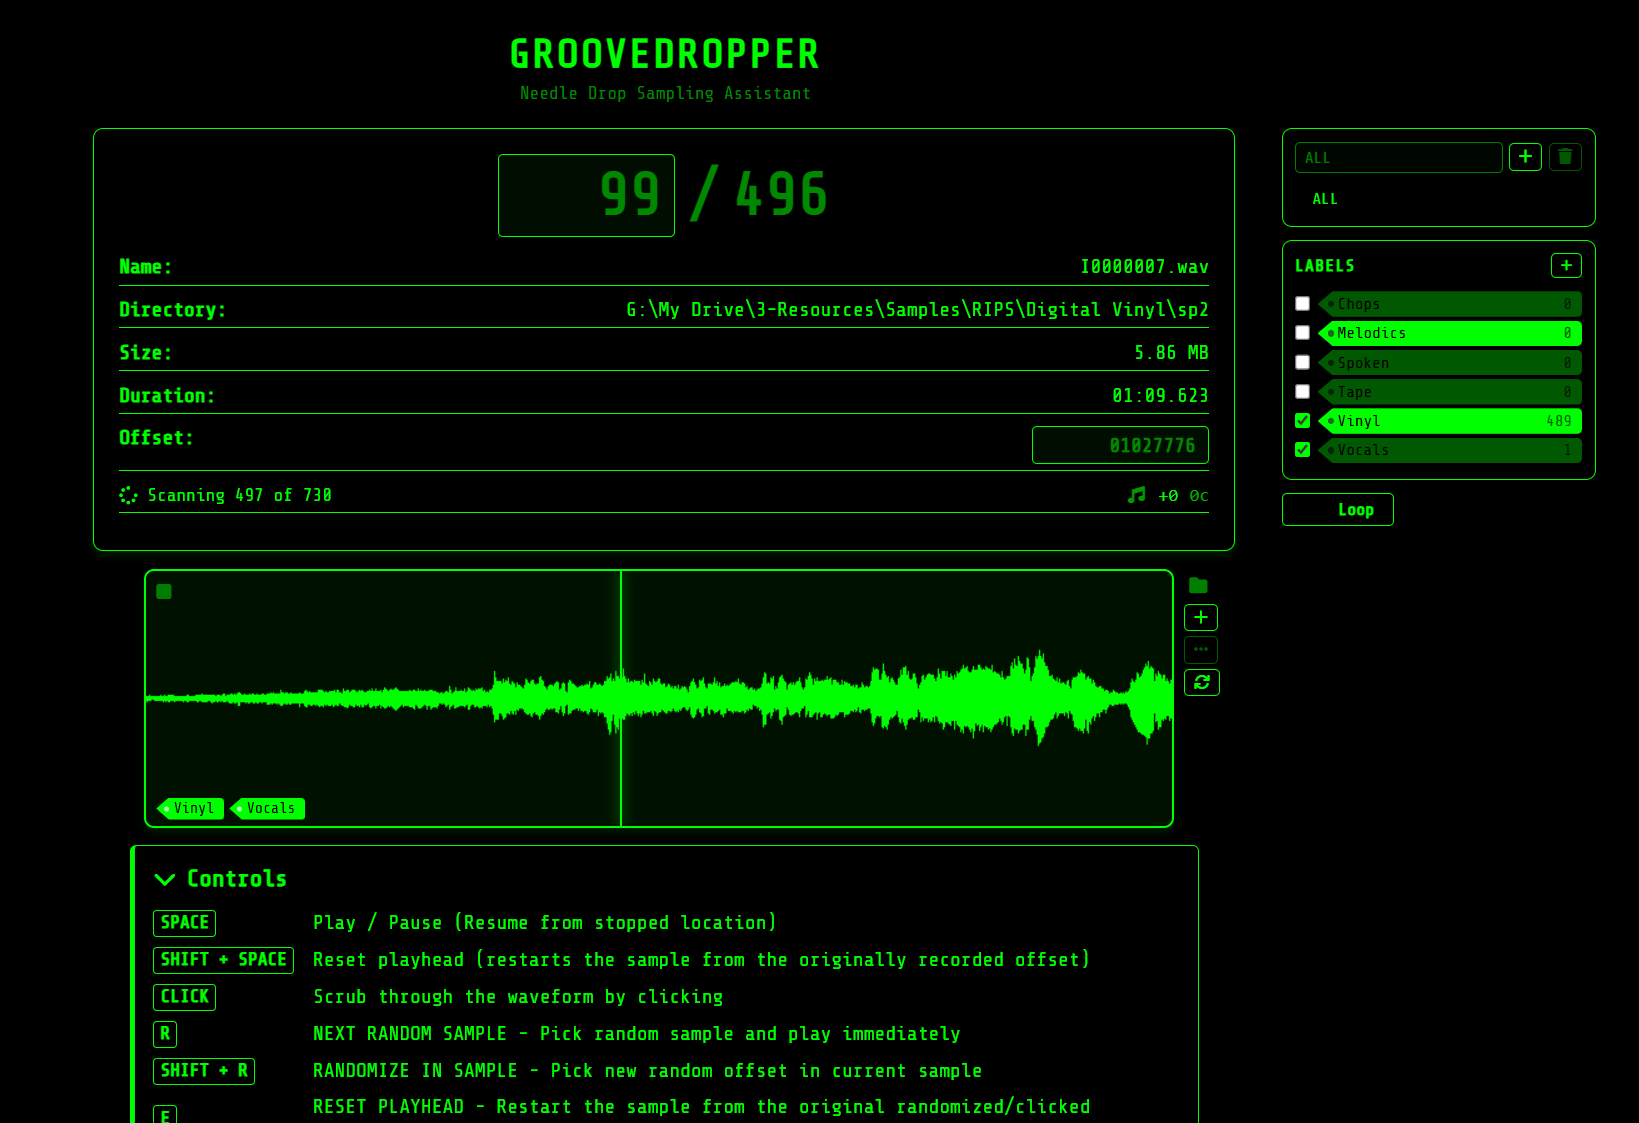
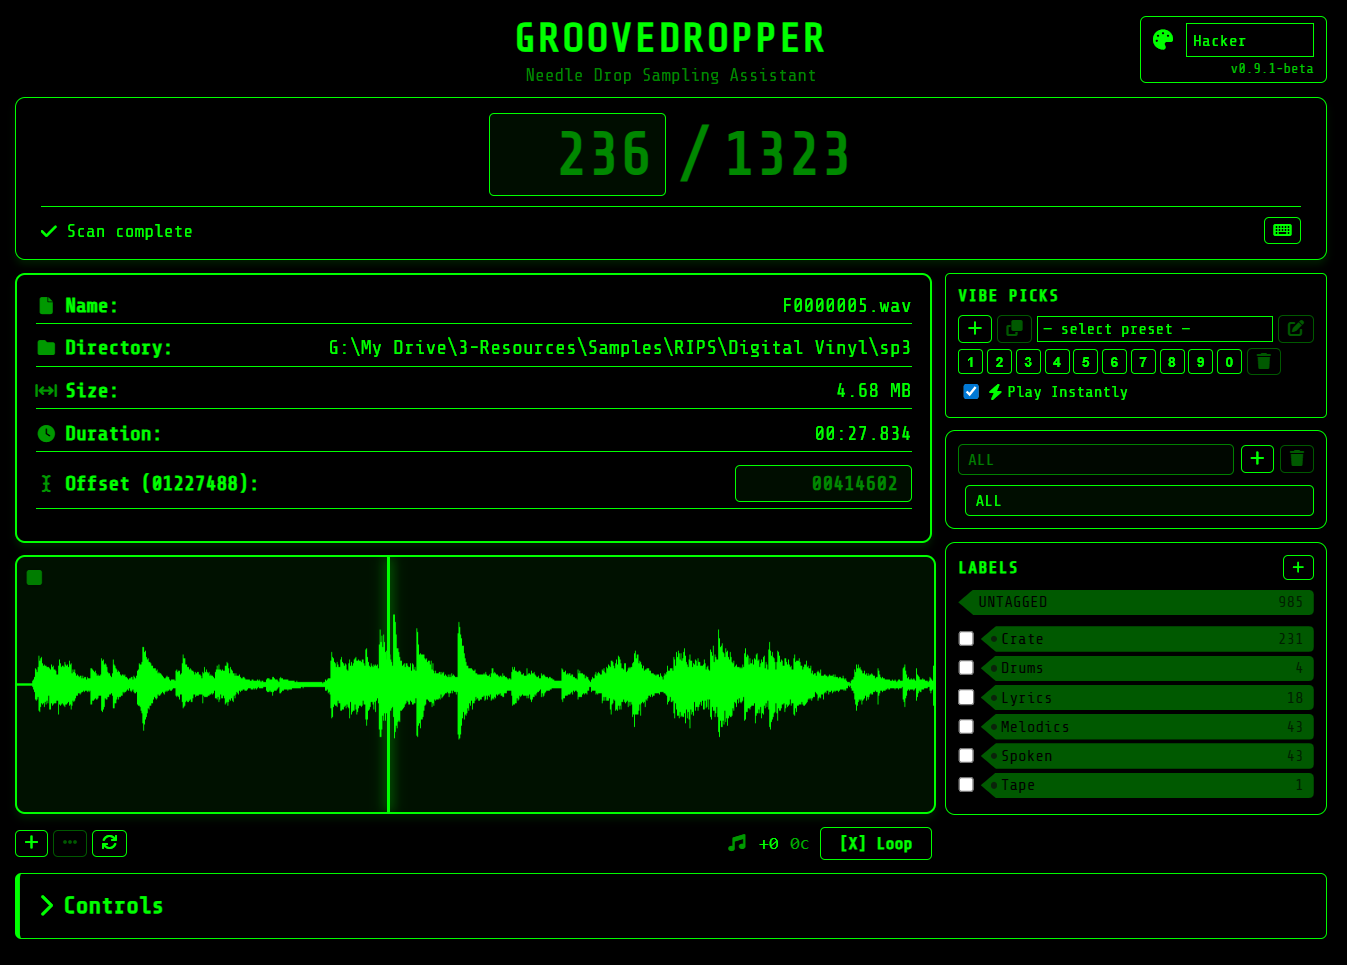
doc: updated screenshots

diff --git a/docs/TODO.md b/docs/TODO.md
@@ -13,6 +13,9 @@
 - investigate: Key detection algorithm on current offset?
   - Investigate key at offset, draw key in text box on export, add the key 
     if set?
+- DRAG AND DROP (HTML5 Drag and Drop API)
+  - Drag a target to an app (like SP404 app) and the sample is transferred
+  - All of the sample, or the slice
 - Manual offset, button next to the offset box (find next transient)
 - fix: Gap between label row and main column, I do not know why it is there!
 - feat: Random vibe generator - random name generator